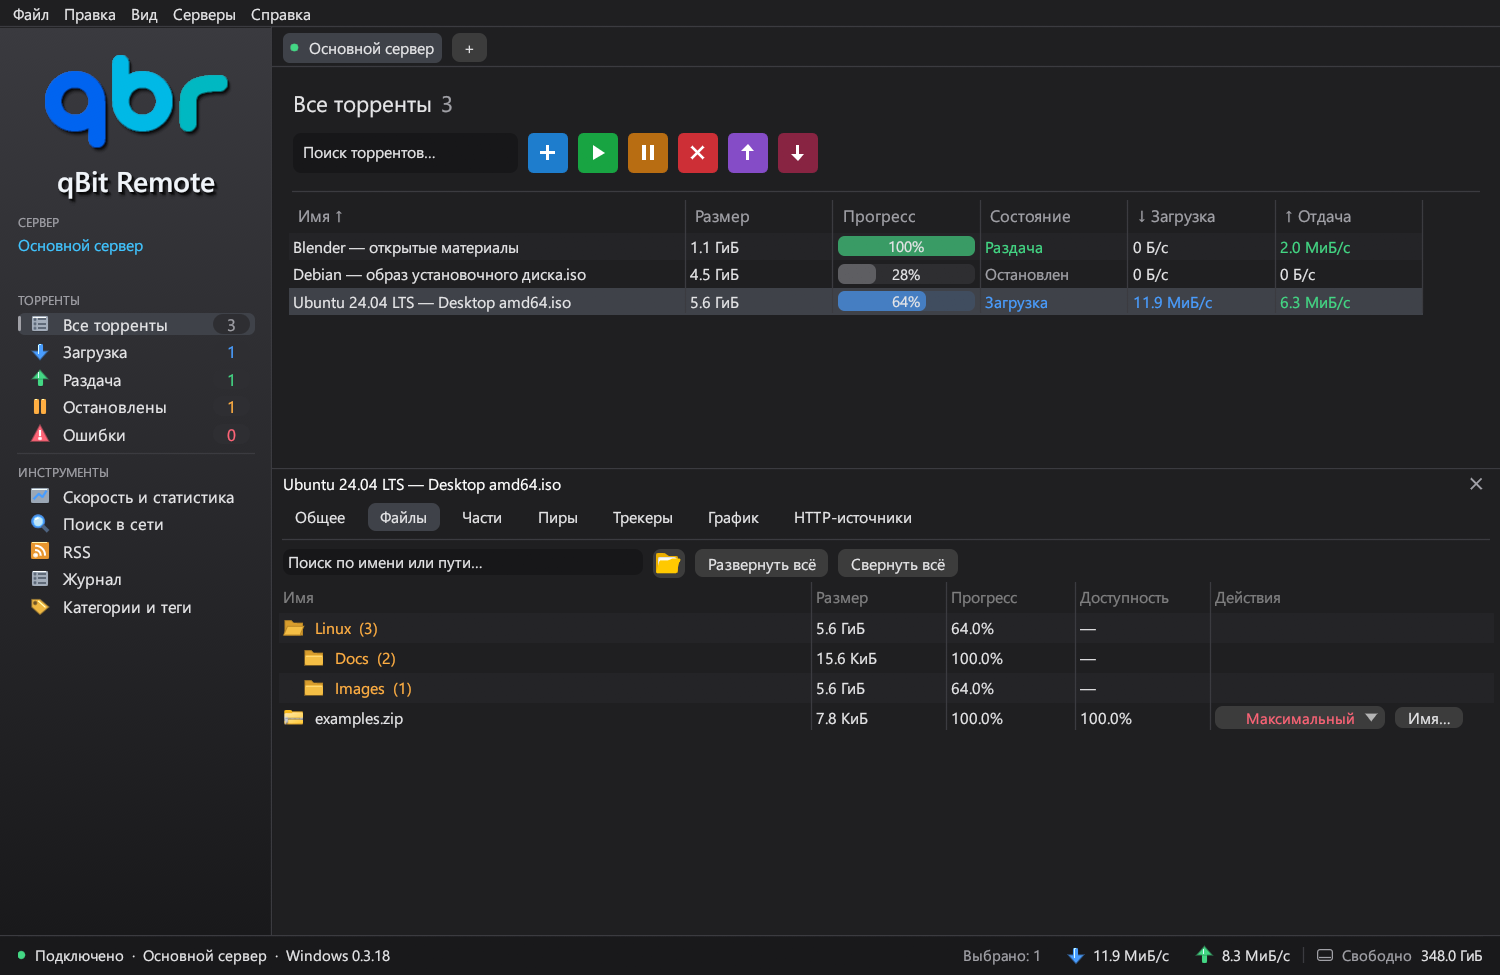
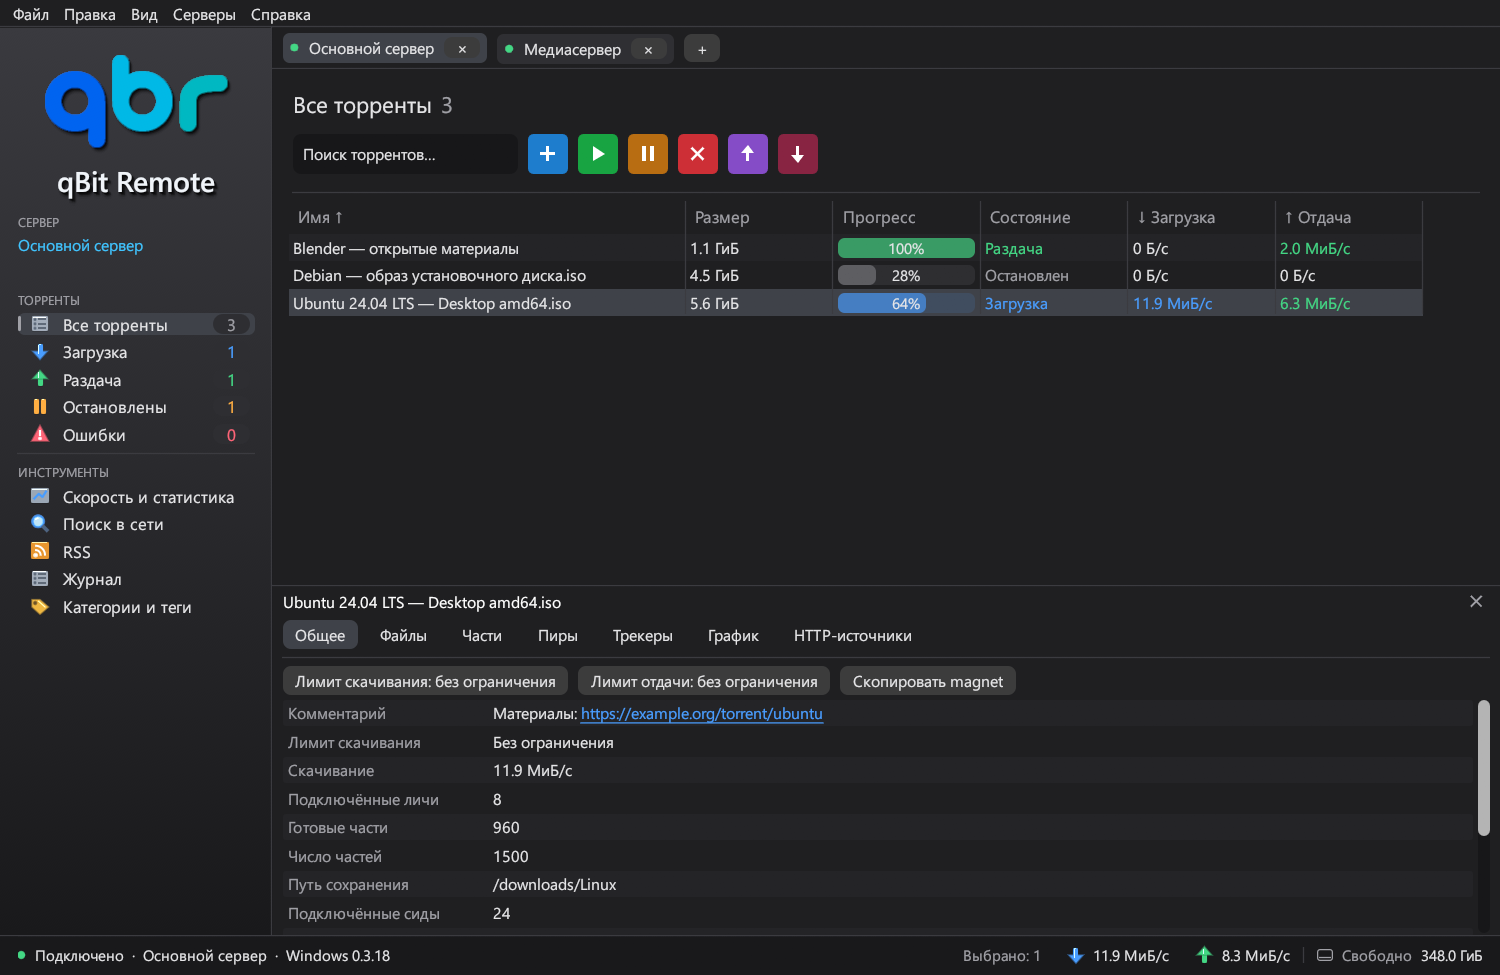
Match GitHub branding and screenshots to the current Windows UI

diff --git a/README.md b/README.md
@@ -2,7 +2,10 @@
 
 Клиент на Rust для управления **удалённым qBittorrent** через Web UI API. Текущая версия — **0.3.18**. Проверенная готовая сборка — **Windows**; порт macOS остаётся экспериментальным и требует нативной проверки.
 
-![qBit Remote — qbr](assets/brand-presentation.png)
+<picture>
+  <source media="(prefers-color-scheme: dark)" srcset="docs/readme-logo-dark.png">
+  <img src="docs/readme-logo-light.png" alt="Логотип qBit Remote с объёмной тенью" width="300">
+</picture>
 
 [Инструкция Windows](Release/README.md) · [История изменений](CHANGELOG.md) · [Проверки](docs/TESTING.md) · [Аудит целостности](docs/INTEGRITY.md) · [macOS](docs/MACOS.md)
 
@@ -27,7 +30,7 @@
 
 Темы показаны в порядке **Graphite → White → Marine Dark**. Все 23 снимка сделаны в версии **0.3.18** на демонстрационных данных без подключения к серверу.
 
-**1. Graphite Theme** — тёмная тема по умолчанию.
+**1. Graphite Theme** — тёмная тема по умолчанию, открыты вкладки двух серверов.
 
 ![Graphite Theme](docs/screenshots/graphite.png)
 
@@ -74,7 +77,7 @@
 
 ![Пиры](docs/screenshots/peers.png)
 
-Компактная таблица трекеров:
+Трекеры с раскрытыми адресами IPv4 и IPv6, версиями BT и временем до анонса:
 
 ![Трекеры](docs/screenshots/trackers.png)
 
